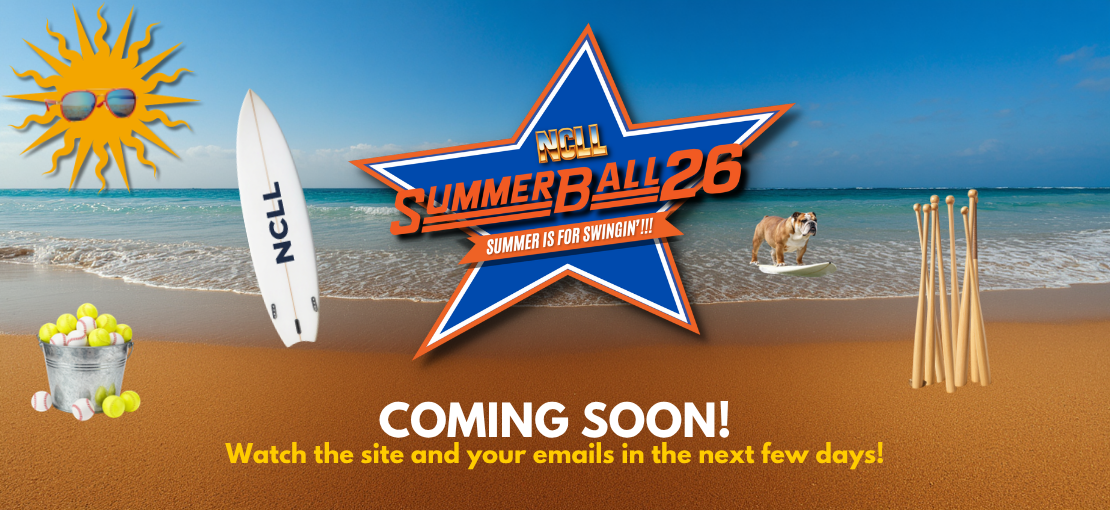
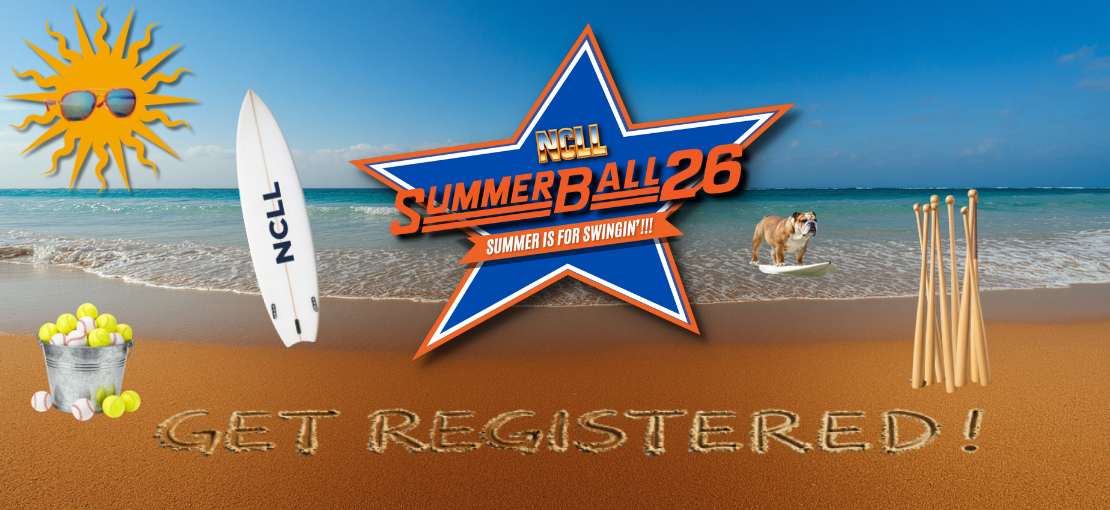
summerball-rotator: replace coming-soon with register-now version; add rotator to email template

Changed region(s): [[0.1225, 0.7647, 0.8883, 0.9118]]

diff --git a/Communications/Untitled-1.html b/Communications/Untitled-1.html
@@ -3,29 +3,50 @@
 <head>
     <meta charset="UTF-8">
     <meta name="viewport" content="width=device-width, initial-scale=1.0">
-    <title>2026 Regular Season Registration Email</title>
+    <title>Summerball26 Email Template</title>
 </head>
 <body style="font-family: 'Segoe UI', Arial, sans-serif; background: #f6f7f9; color: #222; margin: 0; padding: 24px;">
     <div style="max-width: 640px; margin: 0 auto; background: #ffffff; border-radius: 12px; padding: 28px 32px; box-shadow: 0 10px 30px rgba(0, 0, 0, 0.08); box-sizing: border-box;">
-        <h2 style="margin: 0 0 16px 0; color: #00013a; font-size: 1.6rem; line-height: 1.3;">Subject: 2026 Regular Season Registration is (almost) here!</h2>
 
-        <p style="margin: 0 0 20px 0; font-size: 1rem; line-height: 1.6; color: #333;">We are opening registration an entire month early this year! That&#39;s right, as of November 3rd you&#39;ll
-            be able to sign up for NCLL&#39;s 2026 Regular Season Softball and Baseball programs. Keep an eye out for
-            the email on the 3rd!</p>
-
-        <p style="margin: 0 0 20px 0; font-size: 1rem; line-height: 1.6; color: #333;">In the meantime, this is a quick reminder that registration for the
-            <a href="https://www.ncllball.com/Default.aspx?tabid=2112053" style="color: #019cde; text-decoration: none; font-weight: 600;"><strong>Winterball26 Baseball (AAA/Majors
-                    Training)</strong></a>
-            program closes this week. It&#39;s a fantastic program, and we highly encourage you to take advantage of it
-            if you haven&#39;t already signed up!</p>
-
-        <p style="margin: 0 0 20px 0; font-size: 1rem; line-height: 1.6; color: #333;">Thanks!</p>
-
-        <p style="margin: 0; font-size: 1rem; line-height: 1.6; color: #333;">
-            NCLL Registrar<br>
-            North Central Little League
+        <p style="margin: 0 0 20px 0; text-align: center;">
+            <img src="https://ncllball.github.io/images/rotators/2026-summerball-rotator.png" alt="Summerball26" style="max-width: 100%; height: auto; border-radius: 8px;" />
         </p>
+
+        <h2 style="margin: 0 0 16px 0; color: #00013a; font-size: 1.6rem; line-height: 1.3;">Why should you join Summerball26?</h2>
+
+        <p style="margin: 0 0 8px 0; font-size: 1rem; font-weight: 600; color: #333;">The Perfect Summer Program</p>
+        <ul style="margin: 0 0 20px 0; padding-left: 20px; font-size: 1rem; line-height: 1.8; color: #333;">
+            <li><strong>Affordable</strong> — just $75 for the entire season</li>
+            <li><strong>Convenient</strong> — TWO games per week (10–12 games total)</li>
+            <li><strong>Relaxed</strong> — NO practices, just show up and play!</li>
+            <li><strong>Flexible</strong> — ideal for families with summer travel plans</li>
+            <li><strong>Fun-focused</strong> — low-pressure environment for all skill levels</li>
+            <li><strong>All-inclusive</strong> — program jersey provided with registration</li>
+            <li><strong>Open to all</strong> — no geographic boundaries; anyone can play!</li>
+        </ul>
+
+        <hr style="border: none; border-top: 1px solid #e0e0e0; margin: 20px 0;" />
+
+        <p style="margin: 0 0 8px 0; font-size: 1rem; font-weight: 600; color: #333;">Key Dates</p>
+        <ul style="margin: 0 0 20px 0; padding-left: 20px; font-size: 1rem; line-height: 1.8; color: #333;">
+            <li><strong>Registration closes:</strong> June 30, 2026</li>
+            <li><strong>Season:</strong> July 6 – August 14, 2026 (10–12 games)</li>
+            <li><strong>Teams announced:</strong> ~July 4th via email</li>
+        </ul>
+
+        <hr style="border: none; border-top: 1px solid #e0e0e0; margin: 20px 0;" />
+
+        <p style="margin: 0 0 8px 0; font-size: 1rem; font-weight: 600; color: #333;">We Need Your Help!</p>
+        <p style="margin: 0 0 20px 0; font-size: 1rem; line-height: 1.6; color: #333;">Parent volunteers make <em>Summerball26</em> possible! Even helping with a few games makes a huge difference. Sign up during registration — we have a role for everyone!</p>
+
+        <p style="margin: 0 0 24px 0; text-align: center;">
+            <a href="https://www.ncllball.com/Default.aspx?tabid=2112176" style="display: inline-block; background: #c1121f; color: #ffffff; text-decoration: none; font-weight: 700; font-size: 1rem; padding: 12px 28px; border-radius: 6px;">Register Now</a>
+        </p>
+
+        <hr style="border: none; border-top: 1px solid #e0e0e0; margin: 20px 0;" />
+
+        <p style="margin: 0; font-size: 0.9rem; line-height: 1.6; color: #777; text-align: center;">&#9918; Your NCLL Summerball Team</p>
+
     </div>
 </body>
 </html>
-
